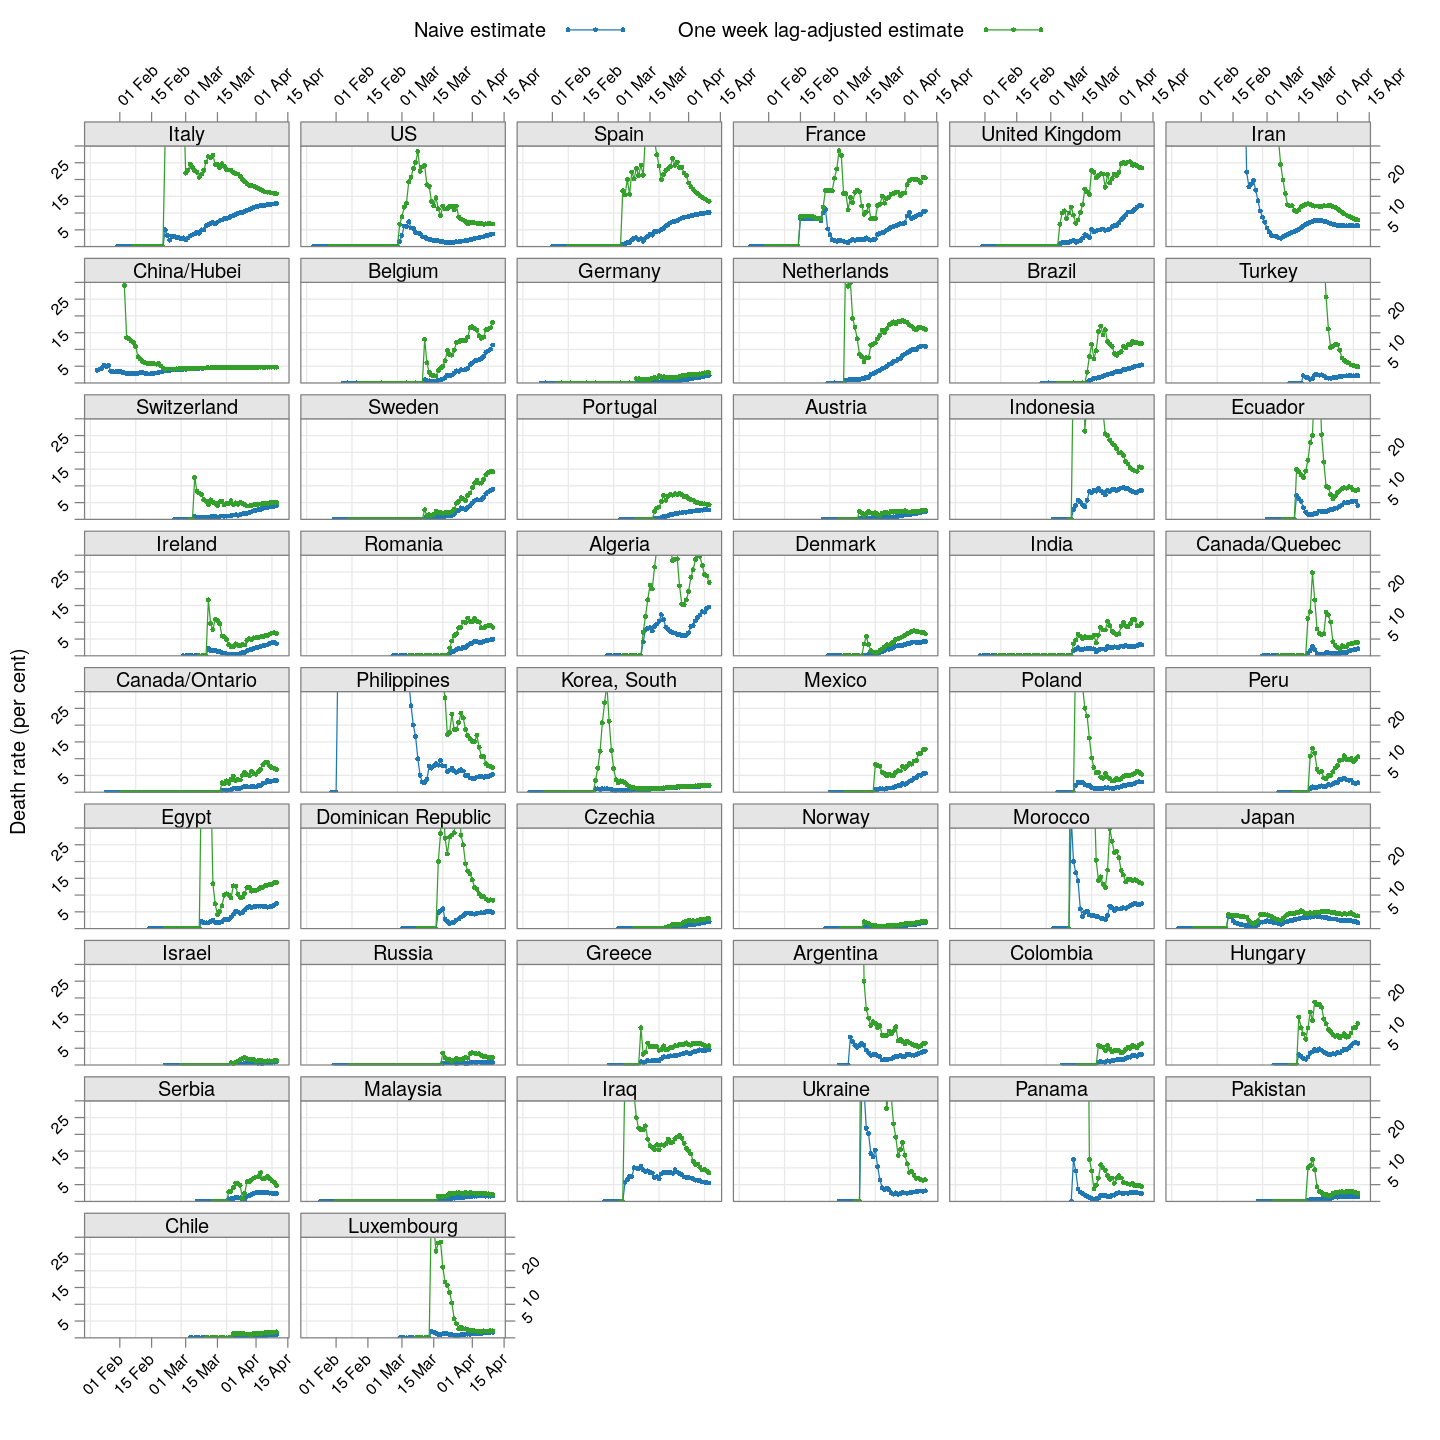
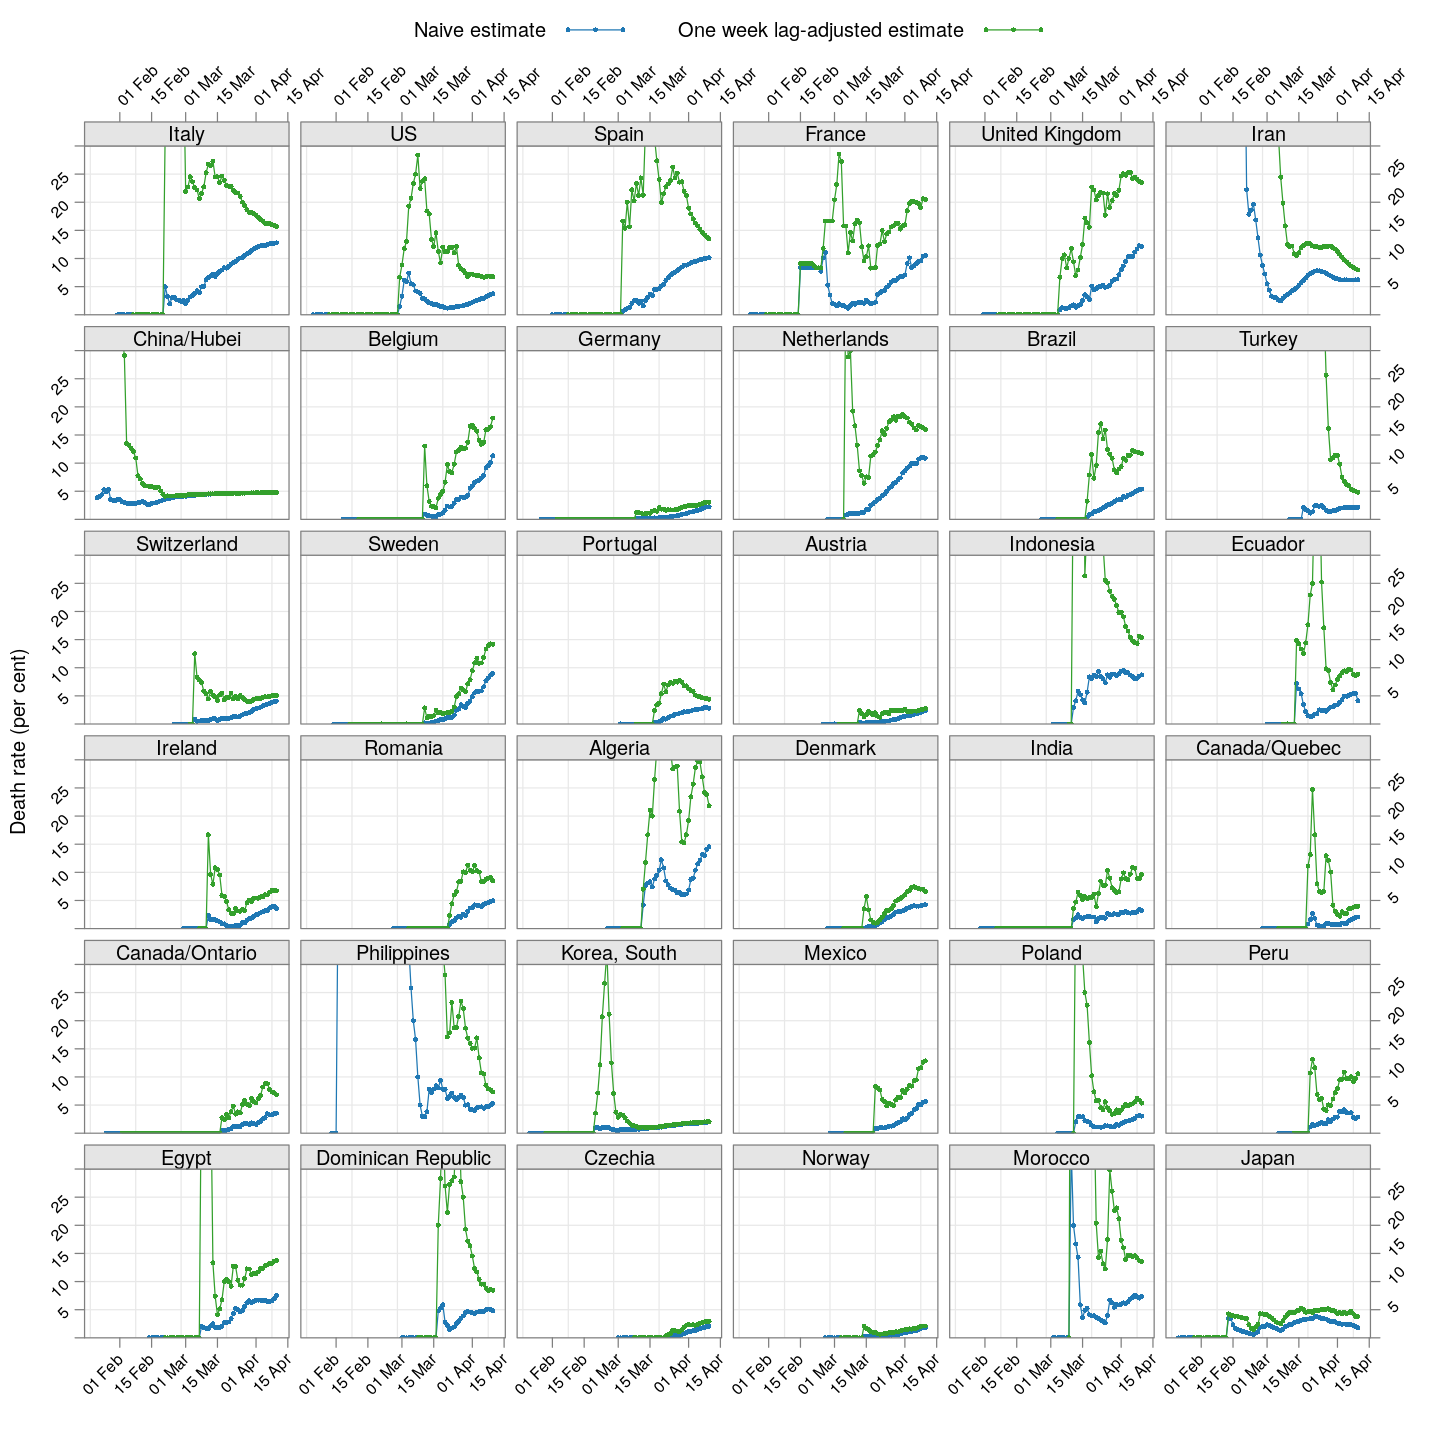
added plots of daily new deaths

diff --git a/covid-19/deaths.md b/covid-19/deaths.md
@@ -137,7 +137,7 @@ start.date <- as.Date("2020-01-22")
 xat <- pretty(start.date + c(0, D-1))
 (dr.naive <-
      xyplot(ts(death.rate[, porder], start = start.date),
-            type = "o", grid = TRUE, layout = c(6, NA),
+            type = "o", grid = TRUE, layout = c(6, 6),
             par.settings = simpleTheme(pch = 16, cex = 0.5), 
             scales = list(alternating = 3, rot = 45,
                           x = list(at = xat, labels = format(xat, format = "%d %b")),
@@ -148,7 +148,7 @@ xat <- pretty(start.date + c(0, D-1))
 )
 ```
 
-![plot of chunk unnamed-chunk-3](figures/deaths-unnamed-chunk-3-1.png)
+![plot of chunk unnamed-chunk-3](figures/deaths-unnamed-chunk-3-1.png)![plot of chunk unnamed-chunk-3](figures/deaths-unnamed-chunk-3-2.png)
 
 
 ## The lag-adjusted death rate
@@ -178,7 +178,7 @@ start.date <- as.Date("2020-01-22") + LAG
 xat <- pretty(start.date + c(0, nrow(death.rate)-1))
 dr.adjusted <- 
      xyplot(ts(death.rate[, porder], start = start.date),
-            type = "o", layout = c(6, NA),
+            type = "o", layout = c(6, 6),
             par.settings = simpleTheme(pch = 16, cex = 0.5), 
             col = ct$superpose.symbol$col[2],
             as.table = TRUE, between = list(x = 0.5, y = 0.5),
@@ -188,7 +188,7 @@ update(dr.naive + dr.adjusted, ylim = c(0, 30),
                        text = c("Naive estimate", "One week lag-adjusted estimate")))
 ```
 
-![plot of chunk unnamed-chunk-4](figures/deaths-unnamed-chunk-4-1.png)
+![plot of chunk unnamed-chunk-4](figures/deaths-unnamed-chunk-4-1.png)![plot of chunk unnamed-chunk-4](figures/deaths-unnamed-chunk-4-2.png)
 
 The adjusted death rates have less systematic trends than the naive
 estimate, but clearly there is still a lot of instability.
@@ -321,8 +321,8 @@ Compare these with other countries:
 
 ```r
 bg <- xyplot(deaths ~ day, data = subset(deaths.10, total >= 2000), grid = TRUE,
-             col = "grey", groups = region, type = "l",
-             scales = list(alternating = 3, y = list(log = 10, equispaced.log = FALSE)))
+             scales = list(alternating = 3, y = list(log = 10, equispaced.log = FALSE)),
+             col = "grey", groups = region, type = "l")
 fg <- 
     xyplot(deaths ~ day | reorder(region, -total), data = subset(deaths.10, total < 2000),
            xlab = "Days since number of deaths exceeded 10", pch = 16,
@@ -335,6 +335,80 @@ fg + as.layer(bg, under = TRUE)
 ![plot of chunk unnamed-chunk-7](figures/deaths-unnamed-chunk-7-1.png)
 
 
+## Which countries have reached their peak?
 
+Another important landmark for any country is when it has passed its
+peak, that is, the daily number of new deaths (or cases) has started
+going down. The following plots show this trend, after applying a
+little bit of smoothing on the cumulative log death counts.
+
+
+
+```r
+newDeathsSince10 <- function(region)
+{
+    x <- xcovid.deaths[, region, drop = TRUE]
+    x <- x[x > 10]
+    days <- seq_along(x)
+    xsmooth <- exp(fitted(loess(log(x) ~ days, span = 0.35)))
+    data.frame(region = region, day = days[-1],
+               deaths = diff(xsmooth), total = tail(x, 1))
+}
+new.deaths.10 <- do.call(rbind, lapply(colnames(xcovid.deaths), newDeathsSince10))
+panel.glabel <- function(x, y, group.value, col.symbol, ...) # x,y vectors; group.value scalar
+{
+    n <- length(x)
+    panel.text(x[n], y[n], label = group.value, pos = 4, col = col.symbol, srt = 40)
+}
+xyplot(deaths ~ day, data = subset(new.deaths.10, total >= 2000), grid = TRUE,
+       scales = list(alternating = 3, y = list(log = 10, equispaced.log = FALSE)),
+       xlab = "Days since number of deaths exceeded 10", ylim = c(1, NA),
+       groups = region, type = "o") +
+    glayer_(panel.glabel(x, y, group.value = group.value, ...))
+```
+
+![plot of chunk unnamed-chunk-8](figures/deaths-unnamed-chunk-8-1.png)
+
+
+There's a lot of overlap, so let's look at these countries separately:
+
+
+```r
+bg <- xyplot(deaths ~ day, data = subset(new.deaths.10, total >= 2000), grid = TRUE,
+             scales = list(alternating = 3, y = list(log = 10, equispaced.log = FALSE)),
+             col = "grey", groups = region, type = "l", ylim = c(1, NA))
+fg1 <- 
+    xyplot(deaths ~ day | reorder(region, -total), data = subset(new.deaths.10, total >= 2000),
+           xlab = "Days since number of deaths exceeded 10", pch = ".", cex = 3, ylim = c(1, NA),
+           scales = list(alternating = 3, y = list(log = 10, equispaced.log = FALSE)),
+           as.table = TRUE, between = list(x = 0.5, y = 0.5),
+           type = "o")
+fg1 + as.layer(bg, under = TRUE)
+```
+
+![plot of chunk unnamed-chunk-9](figures/deaths-unnamed-chunk-9-1.png)
+
+Iran is a bit weird, holding steady, but otherwise Spain, Italy,
+France, and Netherlands appear to have just passed their peaks, and
+the US and Germany are approaching theirs. The situation in the UK is
+not clear. Belgium is still on an upward trajectory. (But beware of
+potential effects of the smoothing, especially at the ends).
+
+
+Compare these with other countries:
+
+
+
+```r
+fg2 <- 
+    xyplot(deaths ~ day | reorder(region, -total), data = subset(new.deaths.10, total < 2000),
+           xlab = "Days since number of deaths exceeded 10", pch = ".", cex = 3, ylim = c(1, NA),
+           scales = list(alternating = 3, y = list(log = 10, equispaced.log = FALSE)),
+           as.table = TRUE, between = list(x = 0.5, y = 0.5), layout = c(5, 5),
+           type = "o")
+fg2 + as.layer(bg, under = TRUE)
+```
+
+![plot of chunk unnamed-chunk-10](figures/deaths-unnamed-chunk-10-1.png)![plot of chunk unnamed-chunk-10](figures/deaths-unnamed-chunk-10-2.png)
 
 
